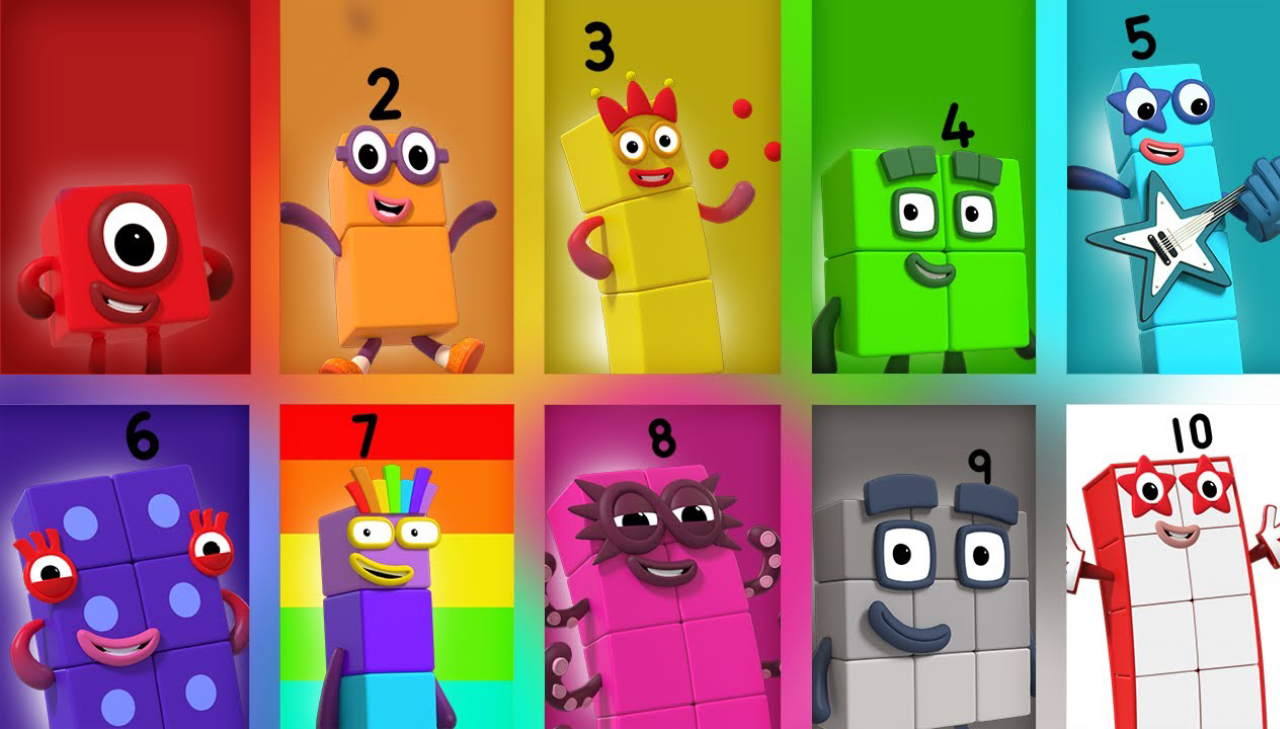
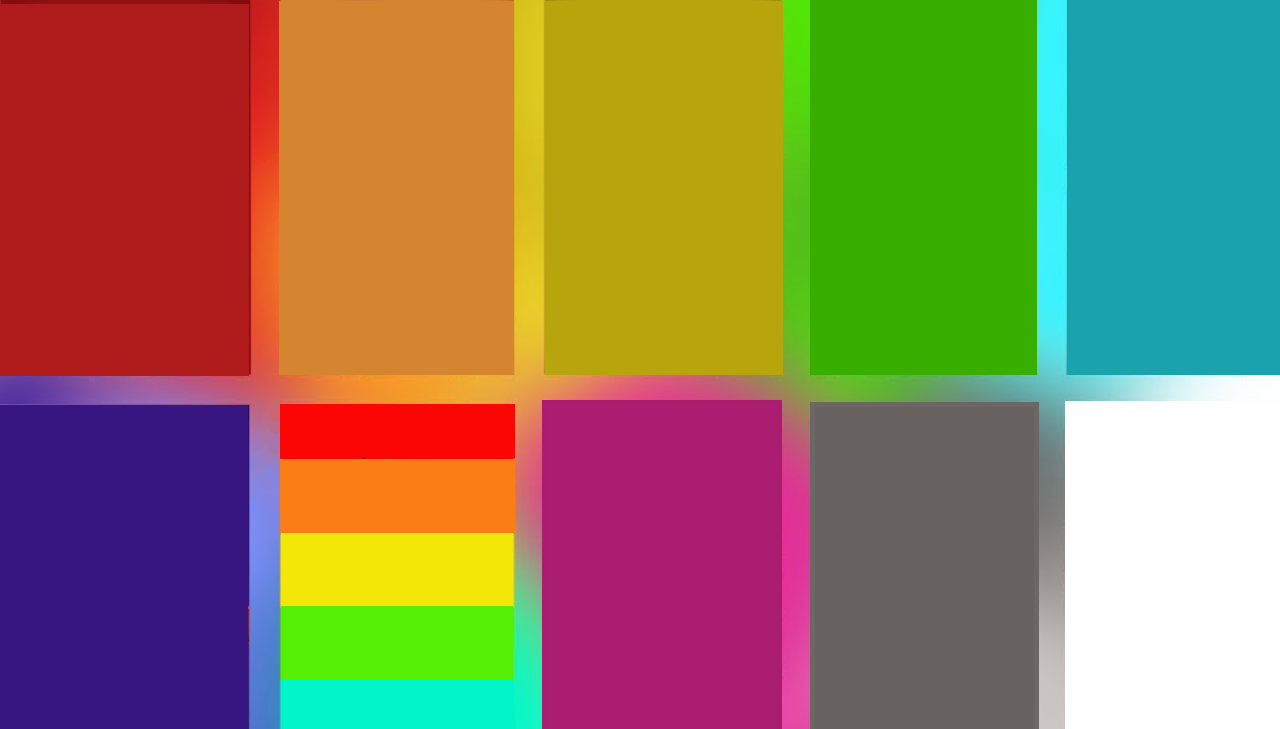
inciso 12 grilla de colores añadido

diff --git a/Entrega 4/style.css b/Entrega 4/style.css
@@ -560,13 +560,6 @@ body{
 
   
 }   
-.grilla-colores{
-    position: absolute;
-    top: 11886px;
-    height: 729px;
-    width: auto;
-    background-image: url(assets/images/455.png);
-}
 .pre-footer{
     height: 1575px;
     width: 1280px;
@@ -986,6 +979,11 @@ button#menu-hamburguesa.close #hamburguesa-linea3{
     animation-fill-mode:both; */
 }
 
+.reveal-img{
+    transform: scale(1);
+    opacity: 1;
+}
+
 .sticky-slider{
     width: 50%;
     height: 90%;
@@ -1089,5 +1087,41 @@ button#menu-hamburguesa.close #hamburguesa-linea3{
         background-position: 0px;
     }to{
         background-position: -623px;
+    }
+}
+
+/*  inciso 12 grilla colores*/
+
+.grilla-colores{
+    position: absolute;
+    top: 11886px;
+    height: 729px;
+    width: 1280px;
+    background-image: url(assets/images/455.png);
+    background-repeat: no-repeat;
+    display: flex;
+    flex-direction: row;
+    flex-wrap: wrap;
+    justify-content: space-between;
+    align-items: flex-start;
+}
+
+.pj-grilla{
+    width: auto;
+    transition: all 300ms ease-in-out;
+    transform-origin: bottom;
+}
+
+.pj-grilla:hover{
+    animation: destacar-pj 500ms ease-in-out;
+    animation-fill-mode: forwards;
+}
+
+@keyframes destacar-pj {
+    from{
+        transform: scale(1);
+    }to{
+        transform: scale(1.25);
+        filter: drop-shadow(0 0 15px rgba(255, 255, 153, 1));
     }
 }

diff --git a/Entrega 4/index.html b/Entrega 4/index.html
@@ -361,7 +361,16 @@
             </p>
         </section> <!-- ¡Experimenta Efectos 3D Asombrosos en NumberBlocks: Una Aventura Matemática Inmersiva! -->
         <section class="grilla-colores">
-        <img src="assets/images/455.png" alt="">
+            <img class="pj-grilla" src="assets/images/grilla-colores/1.png">
+            <img class="pj-grilla" src="assets/images/grilla-colores/2.png">
+            <img class="pj-grilla" src="assets/images/grilla-colores/3.png">
+            <img class="pj-grilla" src="assets/images/grilla-colores/4.png">
+            <img class="pj-grilla" src="assets/images/grilla-colores/5.png">
+            <img class="pj-grilla" src="assets/images/grilla-colores/6.png">
+            <img class="pj-grilla" src="assets/images/grilla-colores/7.png">
+            <img class="pj-grilla" src="assets/images/grilla-colores/8.png">
+            <img class="pj-grilla" src="assets/images/grilla-colores/9.png">
+            <img class="pj-grilla" src="assets/images/grilla-colores/10.png">
         </section> <!-- grilla de colores -->
         <section class="pre-footer">
             <h1 id="prefooter-titulo">¿Quieres ser el primero en enterarse de todas las novedades?</h1>
